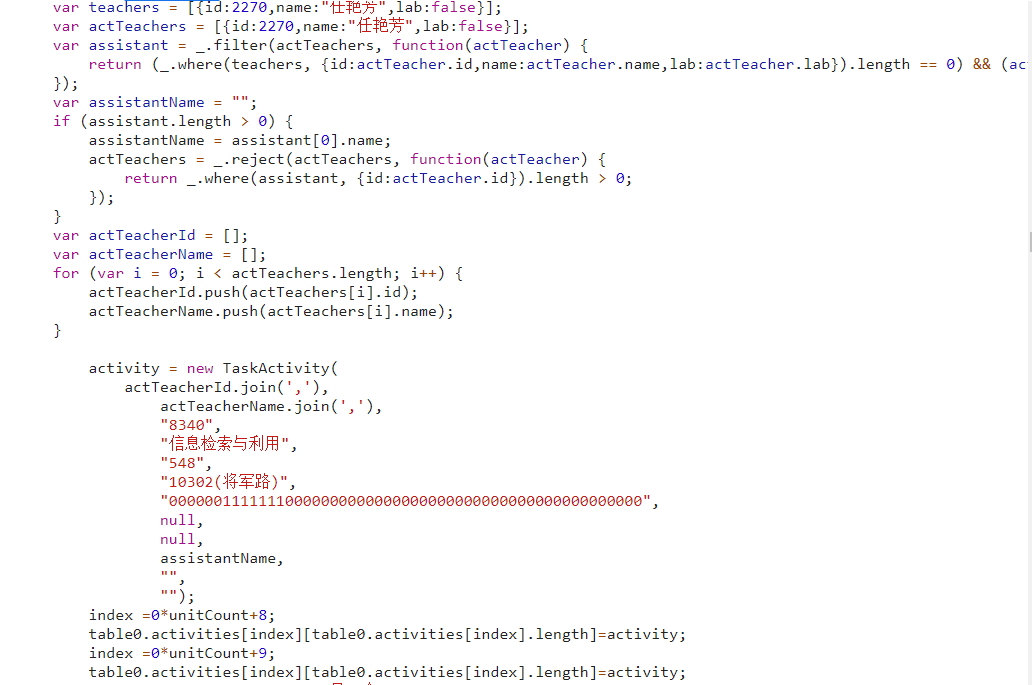
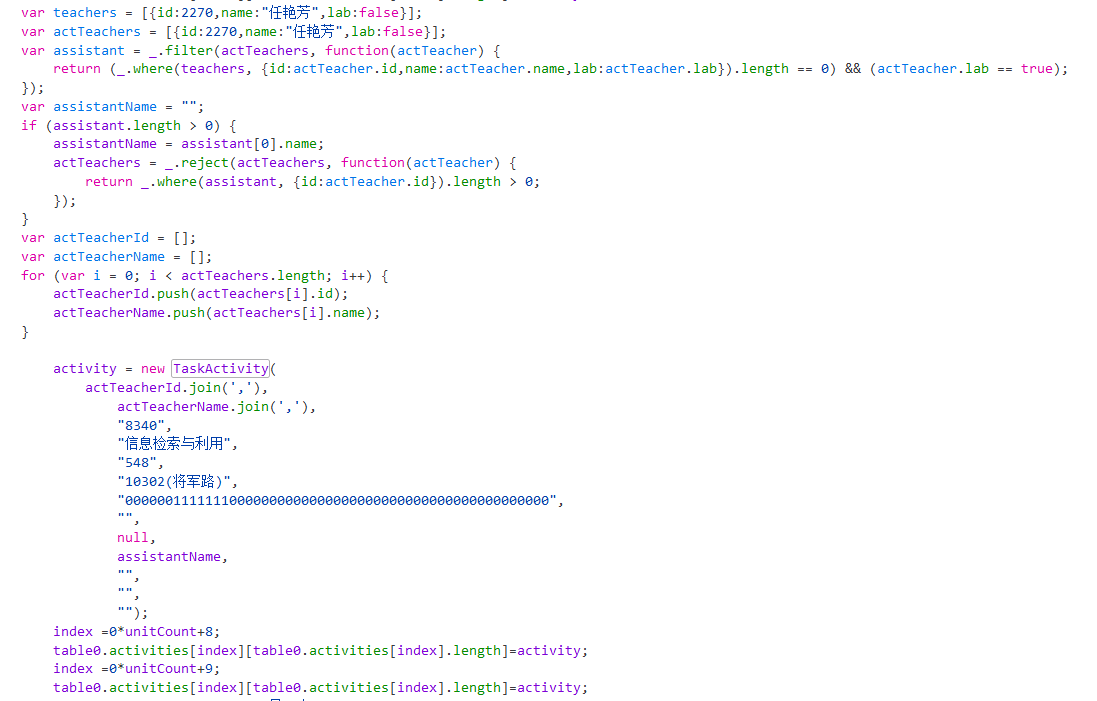
Update V0.5.0.20191107.

diff --git a/getClassSchedule.py b/getClassSchedule.py
@@ -4,8 +4,9 @@
 模拟登录NUAA新版教务系统，获取课表，解析后生成iCal日历文件...
 
 @Author: miaotony
-@Version: V0.4.0.20191026
+@Version: V0.5.0.20191107
 @UpdateLog:
+    V0.5.0.20191107 修复因教务系统JS代码变更而无法解析课表的重大bug，增加requirement.txt
     V0.4.0.20191026 增加命令行参数解析，增加控制台输入学号密码（不回显处理），并与初始设置兼容；修复班级课表中教师为空时解析异常bug
     V0.3.1.20191018 增加解析课程所在周并优化课表输出格式，修复班级课表中班级解析bug，引入logging模块记录日志便于debug
     V0.3.0.20191017 增加 课表解析，增加 班级、实践周匹配，优化代码结构
@@ -27,12 +28,12 @@ import logging
 import argparse
 import getpass
 
-_version_ = "V0.4.0.20191026"
+_version_ = "V0.5.0.20191107"
 
 logging.basicConfig(level=logging.WARNING,
                     format='%(filename)s[line:%(lineno)d] - %(levelname)s: %(message)s')  # 设置日志级别及格式
 
-
+# session = HTMLSession()
 session = requests.Session()
 UAs = [
     "Mozilla/5.0 (Windows NT 10.0; Win64; x64) AppleWebKit/537.36 (KHTML, like Gecko) Chrome/77.0.3865.90 Safari/537.36",
@@ -193,7 +194,7 @@ def parseCourseTable(courseTable):
     re_teachers = re.compile(r'actTeachers\s*=\s*\[(.+)];')
     re_singleTeacher = re.compile(r'({.+?})')
     re_courseInfo = re.compile(
-        r'actTeacherName\.join\(\',\'\),\s*(.*),\s*(.*),\s*(.*),\s*(.*),\s*(.*),\s*(.*),\s*(.*),\s*(.*),\s*(.*),\s*(.*)\s*\)')
+        r'actTeacherName\.join\(\',\'\),\s*(.*),\s*(.*),\s*(.*),\s*(.*),\s*(.*),\s*(.*),\s*(.*),\s*(.*),\s*(.*),\s*(.*)\s*,\s*(.*)\s*\)')
     # courseId,courseName,roomId,roomName,vaildWeeks,taskId,remark,assistantName,experiItemName,schGroupNo
     re_courseTime = re.compile(r'index\s*=\s*(\d+)\s*\*\s*unitCount\s*\+\s*(\d+);')
 

diff --git a/README.md b/README.md
@@ -51,8 +51,14 @@ getpass
 
 - Step 1   
  将本仓库clone到本地，或直接下载`*.py`文件   
-
+ 
 - Step 2  
+ 安装所需的库（Linux下使用pip3，Windows下使用pip）  
+```
+ pip3 install -r requirement.txt
+```
+
+- Step 3  
 **使用时先修改程序里的`stuID`为学号，`stuPwd`为教务处密码**  
    请在`r""`两个引号之间输入，即变量类型为字符串str。  
   
@@ -68,19 +74,19 @@ getpass
 Windows 环境下：  
 
 ```
-    python ./aaoLogin.py
+    python getClassSchedule.py
 ```
 
 Linux 环境下：  
 
 ```
-    python3 ./aaoLogin.py
+    python3 getClassSchedule.py
 ```
 
 从 V0.4.0.20191026 版本起开始支持命令行参数啦！  
 **命令行参数说明：**  
 ```
-usage: aaoLogin.py [-h] [-i ID] [-p PWD] [-c {0,1}]  
+usage: getClassSchedule.py [-h] [-i ID] [-p PWD] [-c {0,1}]  
 
 Get NUAA class schedule at ease! 一个小jio本，让你获取课表更加便捷而实在~  
 
@@ -95,7 +101,7 @@ optional arguments:
 
 示例：  
 ```
-    python aaoLogin.py -i <your ID> -p <your password> 
+    python getClassSchedule.py -i <your ID> -p <your password> 
 ```
 
 同时也支持在控制台输入学号密码啦，且为了保护，密码不带回显，输完之后`<ENTER>`就好啦！  
@@ -104,7 +110,7 @@ optional arguments:
 命令行参数->上面的初始设置->控制台输入  
 
 
-- Step 3  
+- Step 4  
 运行后即可得到解析好的课表啦~   
 
 
@@ -119,7 +125,83 @@ optional arguments:
 P.S.:  
 课表解析部分原始JavaScript数据片段：   
 
+> 20191107更新：  
+教务系统中`TaskActivity`函数新增了一个`teachClassName`参数，导致之前的版本匹配出现问题，
+在 V0.5.0.20191107 版本中已经修复。  
+
+```javascript
+var teachers = [{id:2270,name:"任艳芳",lab:false}];
+var actTeachers = [{id:2270,name:"任艳芳",lab:false}];
+var assistant = _.filter(actTeachers, function(actTeacher) {
+    return (_.where(teachers, {id:actTeacher.id,name:actTeacher.name,lab:actTeacher.lab}).length == 0) && (actTeacher.lab == true);
+});
+var assistantName = "";
+if (assistant.length > 0) {
+    assistantName = assistant[0].name;
+    actTeachers = _.reject(actTeachers, function(actTeacher) {
+        return _.where(assistant, {id:actTeacher.id}).length > 0;
+    });
+}
+var actTeacherId = [];
+var actTeacherName = [];
+for (var i = 0; i < actTeachers.length; i++) {
+    actTeacherId.push(actTeachers[i].id);
+    actTeacherName.push(actTeachers[i].name);
+}
+
+    activity = new TaskActivity(
+        actTeacherId.join(','),
+            actTeacherName.join(','),
+            "8340",
+            "信息检索与利用",
+            "548",
+            "10302(将军路)",
+            "00000011111110000000000000000000000000000000000000000",
+            "",
+            null,
+            assistantName,
+            "",
+            "",
+            "");
+    index =0*unitCount+8;
+    table0.activities[index][table0.activities[index].length]=activity;
+    index =0*unitCount+9;
+    table0.activities[index][table0.activities[index].length]=activity;
+    
+```
+
+其中的`TaskActivity`函数如下：  
+```javascript
+// new taskAcitvity
+function TaskActivity(teacherId,teacherName,courseId,courseName,roomId,roomName,vaildWeeks,taskId,remark,assistantName,experiItemName,schGroupNo, teachClassName){
+    this.teacherId=teacherId;
+    this.teacherName=teacherName;
+    this.courseId=courseId;
+    this.courseName=courseName;
+    this.roomId = roomId;
+    this.roomName = roomName;
+    this.vaildWeeks = vaildWeeks;	// 53个01组成的字符串，代表了一年的53周
+    this.taskId=taskId;
+    this.marshal=marshalValidWeeks;
+    this.addAbbreviate=addAbbreviate;
+    this.clone=cloneTaskActivity;
+    this.canMergeWith=canMergeWith;
+    this.isSame=isSameActivity;
+    this.toString=activityInfo;
+    this.adjustClone=adjustClone;
+    this.leftShift=leftShift;
+    this.needLeftShift=needLeftShift;
+    this.remark = remark;
+    this.assistantName=assistantName;
+    this.experiItemName=experiItemName;
+    this.schGroupNo=schGroupNo;
+    this.teachClassName = teachClassName;
+}
+```
 ![Code_JS](img/Code_JavaScript.png)  
+
+下面这个是原来的：  
+![Code_JS_old](img/Code_JavaScript_old.png)  
 
 ---
 ## Known Issues
@@ -145,9 +227,11 @@ P.S.:
 ---
 ## Version
 
-@Version:  V0.4.0.20191026 
+@Version:  V0.5.0.20191107 
 
 @Update Log:  
+>    V0.5.0.20191107 修复因教务系统JS代码变更而无法解析课表的重大bug，增加requirement.txt
+
 >    V0.4.0.20191026 增加命令行参数解析，增加控制台输入学号密码（不回显处理），并与初始设置兼容；修复班级课表中教师为空时解析异常bug  
 
 >    V0.3.1.20191018 增加解析课程所在周并优化课表输出格式，修复班级课表中班级解析bug，引入logging模块记录日志便于debug  
@@ -226,6 +310,9 @@ P.S.:
 
 网络非法外之地，本项目相关技术内容仅供学习研究，请在合理合法范围内使用！  
 The relevant technical content of this project is only for study and research, please use within the reasonable and legal scope!
+
+**License:**    
+**GPL-3.0**  
 
 未经允许不得商用！  
 Non-commercial use!    
